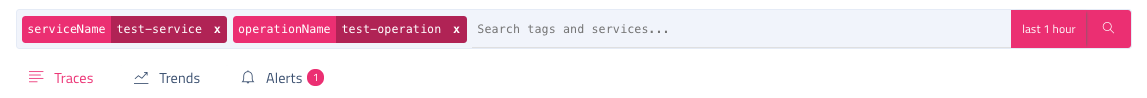
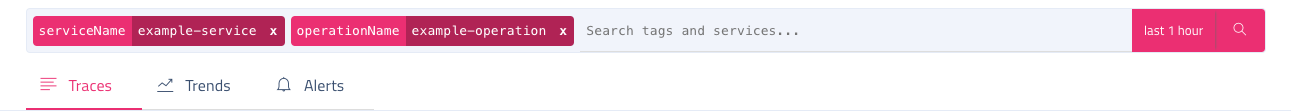
small changes to UI doc wording, update other UI pictures to include USB

diff --git a/docs/ui_traces.md b/docs/ui_traces.md
@@ -6,13 +6,7 @@ sidebar_label: Traces
 Visualization for tracing sub-system of Haystack.
 
 ## Traces Search  
-User can search for Traces going through a service. Operation can be 'all' or any specific operation from the given service. Any fields you want to filter on can be specified `key=value` format. Time Picker allows selecting presets and any time range you want. 
-Here are the available search options -
-- **Service**: Service through which trace must go through
-- **Operation**: Operation of the given service through which trace must go through
-- **Tags**: User can specify white space separated list of tags in `key=value` format(eg. `success=false`), it will fetch Traces who have all the specified tags for provided service and operation combination. Please note that *only the tags whitelisted in haystack tracing subsystem will be eligible for search*, others will be ignored. Some special case for Tags search -
-    - In case of `traceId` tag search, haystack will search for the given id across all services and ignore the provided service 
-- **Time Range Picker**: User can select any presets or specify a custom time window.
+Any query done in the search bar will display the traces tab. Using the search bar, fields you want to filter on can be specified `key=value` format. Time Picker allows selecting presets and any time range you want. For more information on universal search bar querying, visit the [Universal Search documentation](https://expediadotcom.github.io/haystack/docs/ui_universal_search.html).
 
 ![Traces](/haystack/img/traces.png)
 
@@ -29,7 +23,7 @@ Search results are presented in tabluar format for easy visualization of the dat
 
   
 ### Trace Details
-Along with Timeline representation of a trace, haystack comes with 2 more sub-views for providing different prospectives on a trace.
+Along with Timeline representation of a trace, haystack comes with 4 more sub-views for providing different prospectives on a trace.
 
 ### Timeline
 Waterfall for the trace, it shows span timelines using horizontal bars and parent child relationship between them using dotted lines.
@@ -46,5 +40,11 @@ Latency cost view is a handy tool to analyze how much time a trace is consuming 
 ### Trends
 Trace-Trends view is simply list of all operations involved in a single trace along with their current count, duration & success trends. One quickly compare involved trends and spot if any of these trends have changed recently causing issue with the trace.
 
-![Trace Trends](/haystack/img/trends.png)
+![Trace Trends](/haystack/img/trace_trends.png)
+
+### Related Traces
+
+The related traces view allows users to specify properties for traces to match to easily view other traces that match the properties. These options are set in [base.js](https://github.com/ExpediaDotCom/haystack-ui/blob/master/server/config/base.js#L134).
+
+![Related Traces](/haystack/img/trace_related.png)
 

diff --git a/docs/ui_universal_search.md b/docs/ui_universal_search.md
@@ -1,0 +1,29 @@
+---
+title: Haystack Universal Search
+sidebar_label: Universal Search
+---
+
+Haystack's Universal Searchbar (USB) is a powerful way to drill deep into available data and show only the information that you want to see. 
+
+## Simple Workflow
+Tabs for the different UI subsystems are displayed based on what query is submitted. Provided all UI subsystems are enabled in [base.js](https://github.com/ExpediaDotCom/haystack-ui/blob/master/server/config/base.js), the default view will show the [Service Graph](https://expediadotcom.github.io/haystack/docs/ui_service_graph.html) and service performance tabs. 
+
+![Default View](/haystack/img/universal_search_default.png)
+
+To view information about a specific service, submit the query **`serviceName=example-service`**. This will render the [traces](https://expediadotcom.github.io/haystack/docs/ui_traces.html), [trends](https://expediadotcom.github.io/haystack/docs/ui_trends.html), [alerts](https://expediadotcom.github.io/haystack/docs/ui_alerts.html), and service graph (detail view) tabs for the supplied service **`example-service`**. 
+
+Supplying an **`operationName=example-operation`** query will display only traces, trends, and alerts that include that operation name.
+
+![Simple View](/haystack/img/universal_search.png)
+
+## Complex Workflow
+
+Any key is searchable in the USB, provided it is [whitelisted](https://github.com/ExpediaDotCom/haystack/blob/98cb086ed5d5740f698cb5d946811bc38154f2df/deployment/terraform/modules/haystack-apps/kubernetes/ui/variables.tf#L39). Any key that is searched on other than **`serviceName`** and **`operationName`** will only display the traces tab. 
+
+Adding multiple key/value pairs to the USB will only display traces that fulfill the submitted criteria, inclusively. That means if you supply both **`serviceName=example-service`** and **`error=true`**, the traces will have at least one span that is from **`example-service`** and at least one span that is tagged as an error. 
+
+![Detailed Query](/haystack/img/universal_search_detailed.png)
+
+You can drill even deeper by creating a nested query. This is done with the following syntax: **`(serviceName=example-service error=true)`**. This will display only traces with at least one span that is from **`example-service`** *AND* is tagged as an **error**. The notable difference is that in the above condition, the error does not have to be in a **`example-service`** span, while in this condition it will be. 
+
+![Nested Query](/haystack/img/universal_search_nested.png)

diff --git a/docs/ui_service_graph.md b/docs/ui_service_graph.md
@@ -1,0 +1,21 @@
+---
+title: Service Graph UI
+sidebar_label: Service Graph
+---
+
+Visualization for Haystack's Service Graph submodule. Haystack's Service Graph UI utilizes Netflix's open-sourced data visualization tool, [Vizceral](https://github.com/Netflix/vizceral).
+
+## Default View
+Upon landing on the home page with [service graph enabled](https://github.com/ExpediaDotCom/haystack-ui/blob/master/server/config/base.js#L75) and no query submitted to the [universal search bar](https://expediadotcom.github.io/haystack/docs/ui_universal_search.html), the service graph will list display information about the services in the service graph submodule for the selected time period (default 1 hour). 
+
+Hovering over a service name will display traffic information (requests/sec and error rate) at a quick glance. The color of the service nodes will represent the health state, and a traffic animation will display the calls between nodes. 
+
+**Please note:** the traffic animation is for visualisation purposes and shows traffic compared to other nodes, and does not accurately display requests/sec or the duration of the request.
+
+![Default View](/haystack/img/service_graph.gif)
+
+## Detailed View
+
+Upon selecting a service, you will be taken to a detailed view, showing only the upstream and downstream services. Additionally, any supplied tags and traffic information about incoming and outgoing service calls are visible at the top of the page. From here, it's easy to hone into a specific time window or link off to view traces and trends for the selected service. 
+
+![Detailed View](/haystack/img/service_graph_detailed.png)

diff --git a/docs/ui.md b/docs/ui.md
@@ -11,9 +11,9 @@ Visualization tools in haystack-ui include -
 * [Traces](https://expediadotcom.github.io/haystack/docs/ui_traces.html) - Distributed tracing visualization for easy root cause analysis 
 * [Trends](https://expediadotcom.github.io/haystack/docs/ui_trends.html) - Visualization for vital service trends 
 * [Alerts and Anomaly Detection](https://expediadotcom.github.io/haystack/docs/ui_alerts.html) - UI for configuring and subscribing alerts 
-* **Service Dependency** [coming soon] - Real time dependency graph with health and connectivity indicators 
+* [Service Graph](https://expediadotcom.github.io/haystack/docs/ui_service_graph.html) - Real time dependency graph with health and connectivity indicators 
 
-Navigation in `haystack-ui` is pivoted around services. On selecting a service, you will get various visualizations tools each corresponding to a haystack sub-system. 
+Navigation in `haystack-ui` is pivoted around the universal search bar. For information regarding workflow and querying capabilities, please review the [universal search bar documentation](https://expediadotcom.github.io/haystack/docs/ui_universal_search.html).
 
 
 ## Code, Deployment and Configuration

diff --git a/docs/ui_alerts.md b/docs/ui_alerts.md
@@ -6,8 +6,8 @@ sidebar_label: Alerts
 Visualization for current status of vital service health trends. Haystack provides anomaly detection on 3 metrices for each operation of all services - count, duration TP99 and failure count.
 
 ## Alerts Summary
-You would get summary stats for count, duration TP99 and failure count alerts for all operation of the service on landing on Alerts page.
-At the top, Current health of Service is displayed by total number of unhealthy alerts out of total available alerts.
+Upon selecting the alerts tab, you are provided summary stats for count, duration TP99 and failure count alerts for all operation of the queried service.
+The alerts view is split into three tabs for the three types of alerts: failure count, duration TP99, and AA (adaptive alerting) duration. 
 
 ![Alerts Page](/haystack/img/alerts.png)
 

diff --git a/docs/ui_trends.md b/docs/ui_trends.md
@@ -6,7 +6,7 @@ sidebar_label: Trends
 The Trends view in the UI provides visualization for vital service health trends. Haystack trends 3 metrics for each operation of all services - count, duration(tp95, tp99, median) and success %.
 
 ## Main view
-When you open the Trends page in the UI, the Trends view shows summary stats for count, duration and success % for all operations.
+When you select the trends tab for a provided `serviceName` query in the searchbar, the Trends view shows summary stats for count, duration and success % for all operations.
 
 ![Trends page](/haystack/img/trends.png)
 

diff --git a/docs/subsystems_traces.md b/docs/subsystems_traces.md
@@ -42,4 +42,4 @@ The Reader runs as a GRPC server and serves Haystack UI to fetch traces directly
      
 The [Trace View](./ui_traces.html) in the user interface reads the stitched view of all the span and sub-span data for a given TraceID, and renders it:
 
-<img src="/haystack/img/trace_details.png" style="width: 800px;"/>
+<img src="/haystack/img/trace_timeline.png" style="width: 800px;"/>
